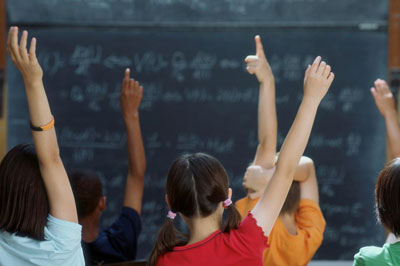
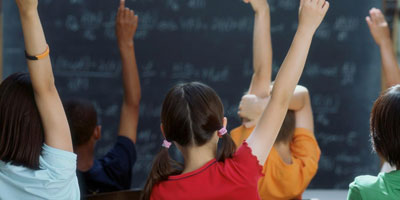
Emergency Fix height script + What we do image cropping

diff --git a/css/emergency.css b/css/emergency.css
@@ -22,15 +22,11 @@ div#container {
                 border: 0;
                 min-width: 200px;
                 position: relative;
-                padding: 0;
+                padding: 0 7.5px;
         }	
                 
-
                 .emergency-section.featured .image-container  {
-                        position: absolute;
-                        width: 100%;
-                        z-index: -1;
-                        padding: 0 7.5px;
+                        overflow: hidden;
                 }
                         .emergency-section.featured img  {
                                 width: 100%;
@@ -45,6 +41,9 @@ div#container {
                 float: right;
                 position: relative;
                 z-index: 0;
+                position: absolute;
+                top: 0;
+                right: 0;
         }
         .emergency-section.featured:nth-of-type(2n) .content {
                 top: auto;

diff --git a/emergency.html b/emergency.html
@@ -204,7 +204,7 @@
 		
     <div class="emergency-section featured col-sm-6 col-xs-12">
         <div class="image-container">
-            <img src="./css/images-emergency/feat-1.jpg" class="matchheight"/>
+            <img src="./css/images-emergency/feat-1.jpg"/>
         </div>
         <div class="content-container">
             <div class="content">
@@ -216,7 +216,7 @@
     </div>
     <div class="emergency-section featured col-sm-6 col-xs-12">
         <div class="image-container">
-            <img src="./css/images-emergency/feat-2.jpg" class="matchheight"/>
+            <img src="./css/images-emergency/feat-2.jpg"/>
         </div>
         <div class="content-container">
             <div class="content">

diff --git a/js/emergency.js b/js/emergency.js
@@ -1,16 +1,3 @@
-$browserWidth = $(window).width();
-
-function emFeatHeight () {
-    $('.emergency-section.featured').each(function(){
-        $imgh = $(this).children('.image-container').children('img').height();
-        $(this).height($imgh); 
-        if($browserWidth <= 767) {
-            $(this).height('');
-        }
-    }); 
-    
-}
-
 $(document).ready(function(){
     $('.emergency-section .mobile-title').click(function(){
         $(this).parent().children('.mobile-container').slideToggle();
@@ -26,6 +13,4 @@ $(document).ready(function(){
         
     });
 });
-$(document).ready(emFeatHeight);
-$(window).load(emFeatHeight);
-$(window).resize(emFeatHeight);
+
